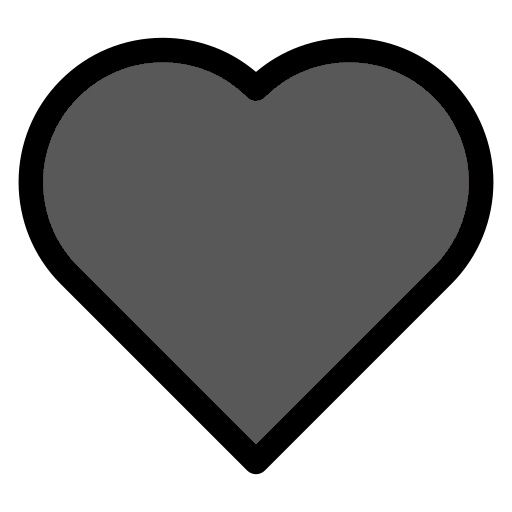
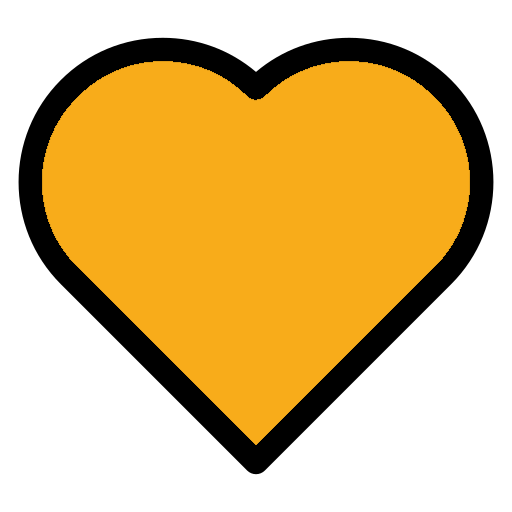
Feat:Favorites added to dashboard

diff --git a/src/components/DashboardComponent/DashboardComponent.jsx b/src/components/DashboardComponent/DashboardComponent.jsx
@@ -4,6 +4,13 @@ import { loadProductsAction } from './DashboardComponentActions';
 import { getAllProducts } from '../../core/services/productFetch';
 import ProductComponent from '../ProductComponent/ProductComponent';
 import './../../css/DashBoard.css';
+import {
+  addToFavorite,
+  getUserProfile,
+  removeFromFavorite,
+} from '../../core/services/userFetch';
+import { showToast } from '../../utils/utils';
+import { loadProfileAction } from '../ProfileComponent/ProfileComponentActions';
 
 const PRODUCTS_LOAD = 20;
 
@@ -14,6 +21,32 @@ const DashboardComponent = () => {
   const availableProductsList = useSelector(
     (state) => state.dashboardComponentReducer.productsList
   );
+
+  const userData = useSelector(
+    (state) => state.profileComponentReducer.dataProfile
+  );
+
+  const isProductFavorite = (productId) => {
+    return userData?.favorites?.includes(productId);
+  };
+
+  const handleToggleFavorite = async (productId) => {
+    try {
+      const alreadyFavorite = isProductFavorite(productId);
+
+      if (alreadyFavorite) {
+        await removeFromFavorite(productId);
+      } else {
+        await addToFavorite(productId);
+      }
+
+      const updatedProfile = await getUserProfile();
+      dispatch(loadProfileAction({ dataProfile: updatedProfile }));
+    } catch (error) {
+      console.error(error.message);
+      showToast('Error al cambiar el estado del favorito', 'error');
+    }
+  };
 
   const loadAvailableProducts = async () => {
     try {
@@ -28,9 +61,6 @@ const DashboardComponent = () => {
     }
   };
 
-  const selectProductHandler = (productId) => {
-  };
-
   const loadMore = () => {
     setVisibleCount((prevCount) => prevCount + PRODUCTS_LOAD);
   };
@@ -40,8 +70,18 @@ const DashboardComponent = () => {
   const hasMoreToShow = availableProductsList?.length > visibleCount;
 
   useEffect(() => {
-    loadAvailableProducts();
-  });
+    const loadInitialData = async () => {
+      try {
+        loadAvailableProducts();
+        const profile = await getUserProfile();
+        dispatch(loadProfileAction({ dataProfile: profile }));
+      } catch (error) {
+        showToast('Error al inicilizar el componente', 'error');
+        console.log(error.message);
+      }
+    };
+    loadInitialData();
+  }, []);
 
   return (
     <>
@@ -51,7 +91,8 @@ const DashboardComponent = () => {
             <ProductComponent
               key={product._id}
               productInfo={product}
-              onClick={() => selectProductHandler(product._id)}
+              isFavorite={isProductFavorite(product._id)}
+              onToggleFavorite={handleToggleFavorite}
             />
           ))
         ) : (

diff --git a/src/core/services/userFetch.js b/src/core/services/userFetch.js
@@ -7,17 +7,29 @@ export async function getUserProfile() {
 }
 
 export const updateUserProfile = async (dataUser) => {
-  const userUpdated = await callApi('PATCH', apiConfig.URL_UPDATE_USR, dataUser);
-  return userUpdated;
+  return await callApi('PATCH', apiConfig.URL_UPDATE_USR, dataUser);
 };
 
 export const deleteUserProfile = async () => {
-  const userDeleted = await callApi('DELETE', apiConfig.URL_DELETE_USR);
-  return userDeleted;
-}
+  return await callApi('DELETE', apiConfig.URL_DELETE_USR);
+};
 
 export const uploadImgProfile = async (imageData) => {
-  const responseUpload = await callApi('POST', apiConfig.URL_UPL_USR_PHOTO, imageData, true);
-  return responseUpload;
-}
+  return await callApi('POST', apiConfig.URL_UPL_USR_PHOTO, imageData, true);
+};
 
+export const addToFavorite = async (productId) => {
+  const response = await callApi(
+    'PATCH',
+    `${apiConfig.URL_USR_SET_FAVORITE}${productId}`
+  );
+  return response.data;
+};
+
+export const removeFromFavorite = async (productId) => {
+  const response = await callApi(
+    'PATCH',
+    `${apiConfig.URL_USR_DEL_FAVORITE}${productId}`
+  );
+  return response.data;
+};

diff --git a/src/components/LoginComponent/LoginComponent.jsx b/src/components/LoginComponent/LoginComponent.jsx
@@ -3,9 +3,13 @@ import { useDispatch } from 'react-redux';
 import { useNavigate } from 'react-router-dom';
 import { changeHomeViewAction } from '../HomePageComponent/HomePageComponentActions';
 import { doLoginFetch } from '../../core/services/api';
-import { isAuthenticatedAction } from '../DashboardComponent/DashboardComponentActions';
+import {
+  dataUserLoggedAction,
+  isAuthenticatedAction,
+} from '../DashboardComponent/DashboardComponentActions';
 import './../../css/Login.css';
 import { delay, showToast, validateFields } from '../../utils/utils';
+import { loadProfileAction } from '../ProfileComponent/ProfileComponentActions';
 
 const LoginComponent = () => {
   const [dataLogin, setDataLogin] = useState({});
@@ -38,6 +42,11 @@ const LoginComponent = () => {
           isAuthenticatedAction({
             isAuthenticated: true,
             isSessionChecked: true,
+          })
+        );
+        dispatch(
+          loadProfileAction({
+            dataProfile: responseLogin.data,
           })
         );
         showToast('Usuario logeado correctamente');

diff --git a/src/components/DashboardComponent/DashboardComponentReducer.js b/src/components/DashboardComponent/DashboardComponentReducer.js
@@ -5,10 +5,10 @@ import {
 } from './DashboardComponentActions';
 
 const initialState = {
-  userDataLogged: undefined,
+  userDataLogged: null,
   isAuthenticated: false,
   isSessionChecked: false,
-  productsList: undefined,
+  productsList: null,
 };
 
 const dashboardComponentReducer = (state = initialState, action) => {
